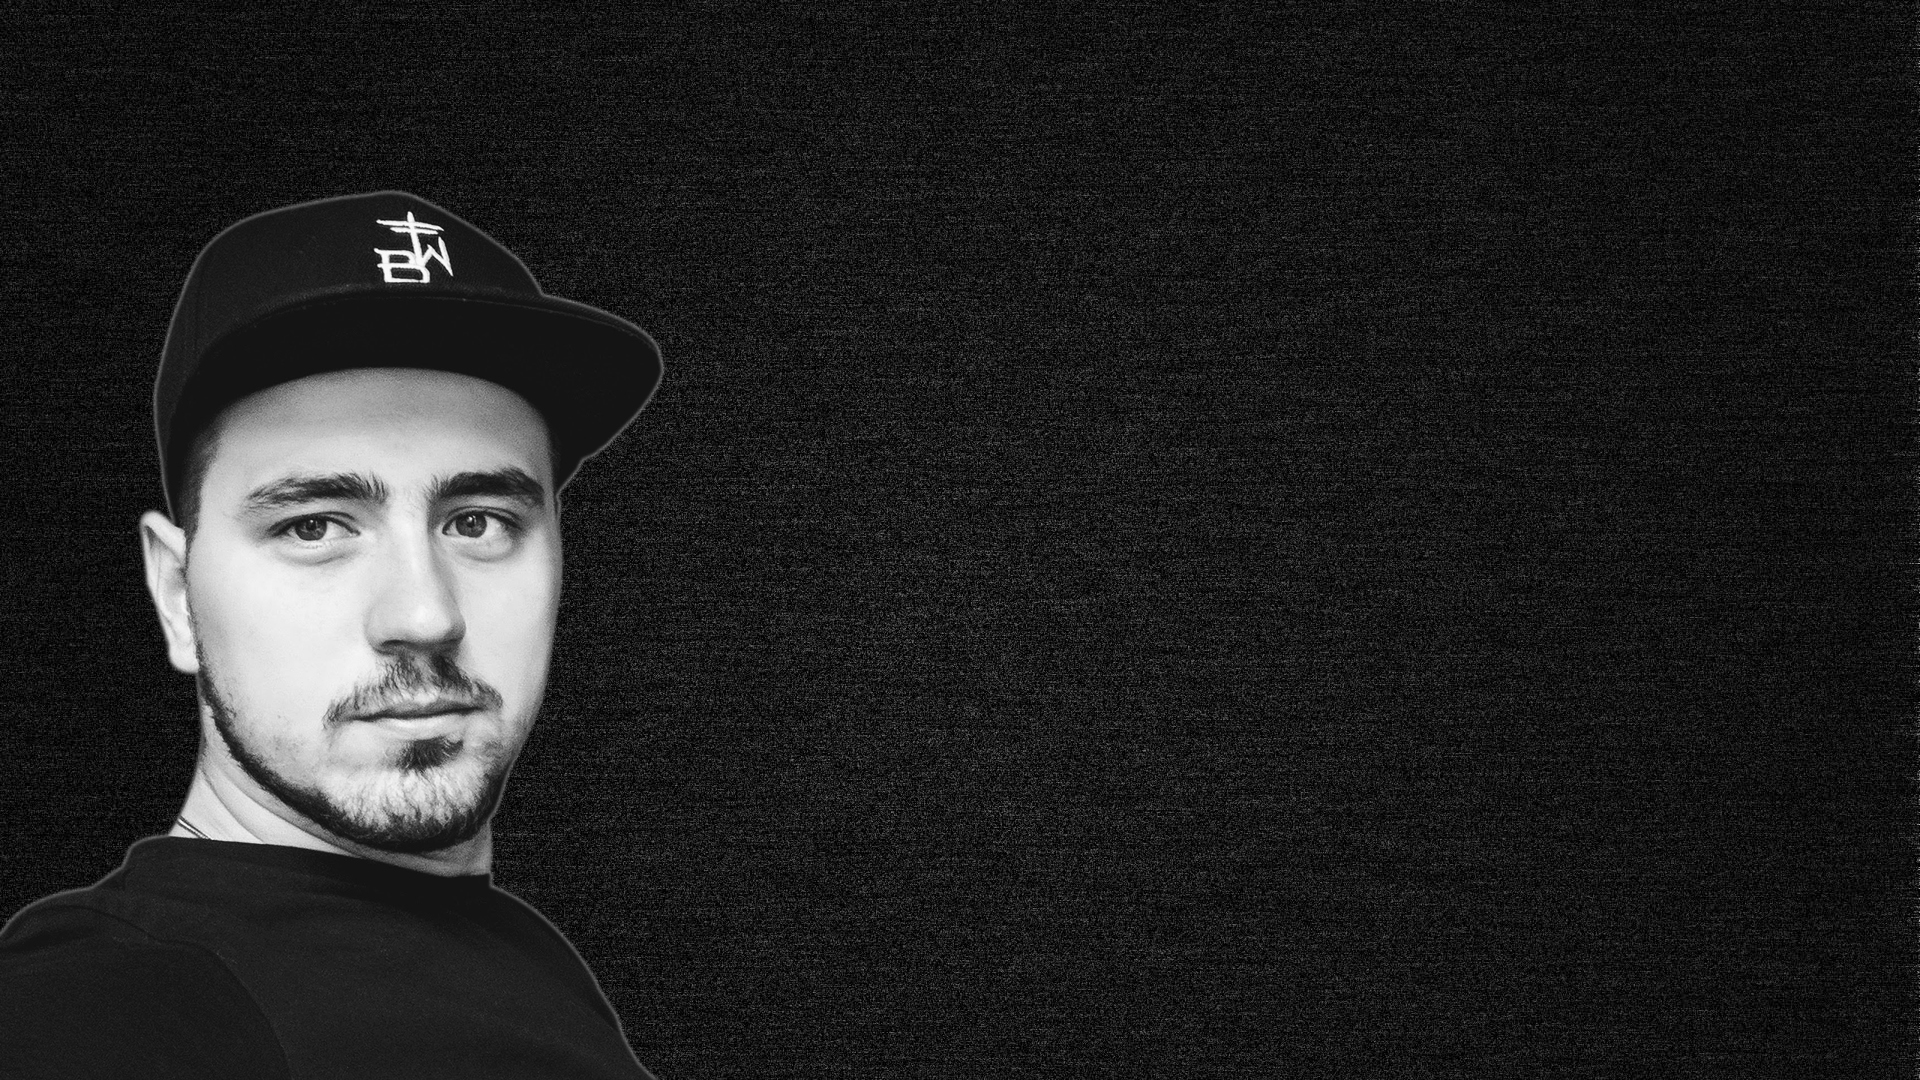
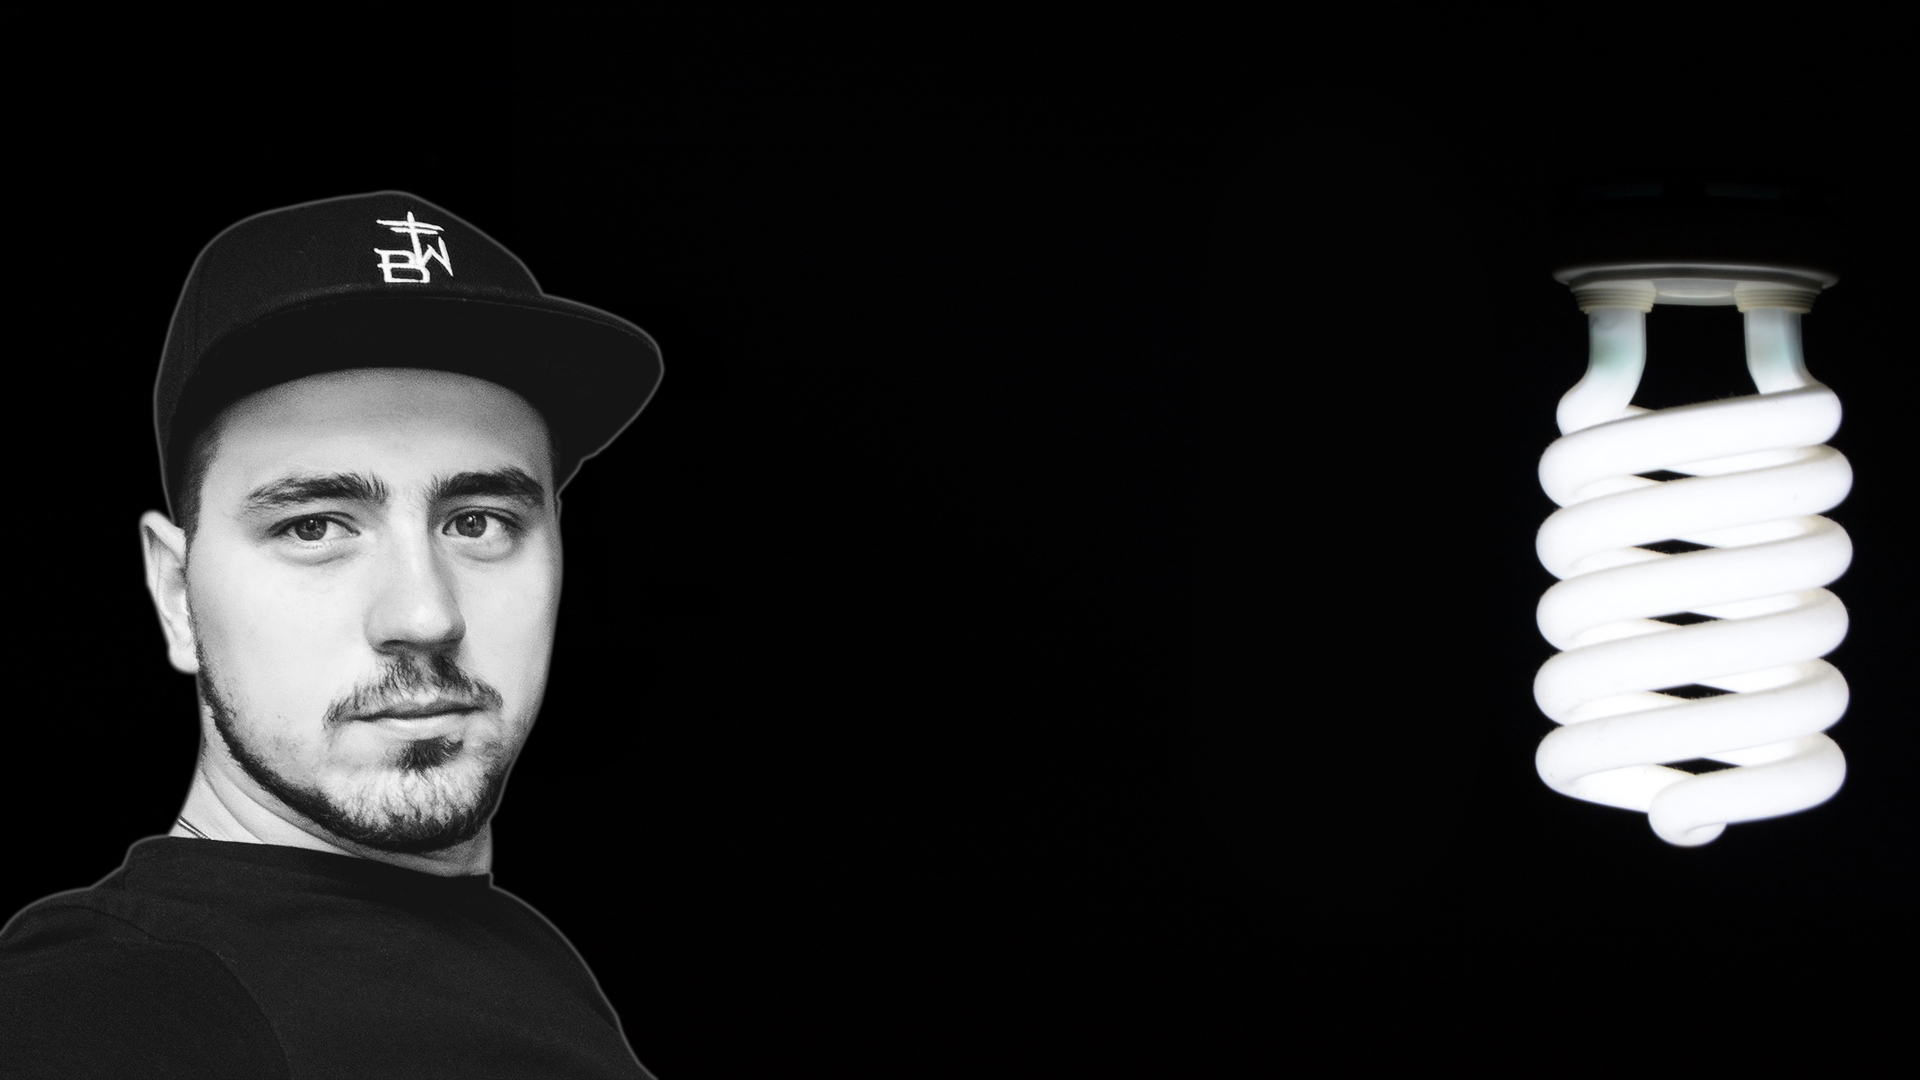
change path try

diff --git a/page/portfolio.html b/page/portfolio.html
@@ -1,76 +1,70 @@
 <!doctype html>
 <html>
-
-<head>
-    <meta charset="utf-8">
-    <title>Portfolio</title>
-    <link rel="stylesheet" type="text/css" href="../style.css">
-    <link rel="stylesheet" type="text/css" href="../style/portfolio.css">
-</head>
-
-<body>
-    <div class="head">
-        <div class="menu">
-            <ul class="list">
-                <a href="../index.html">
-                    <li class="menu-li">Главная</li>
-                </a>
-                <a href="../page/service.html">
-                    <li class="menu-li">Услуги</li>
-                </a>
-                <a href="../page/portfolio.html">
-                    <li class="menu-li">Портфолио</li>
-                </a>
-                <a href="../page/news.html">
-                    <li class="menu-li">Новости</li>
-                </a>
-                <a href="../page/contact.html">
-                    <li class="menu-li">Контакты</li>
-                </a>
-                <a href="../page/about.html">
-                    <li class="menu-li">О Нас</li>
-                </a>
-            </ul>
-        </div>
-        <hr>
-        <div class="header">
-            <!--
-            <div class="photo">
-                <img src="/img/photo.jpeg">
+    <head>
+        <meta charset="utf-8">
+        <title>Portfolio</title>
+        <link rel="stylesheet" type="text/css" href="../style.css">
+        <link rel="stylesheet" type="text/css" href="../style/portfolio.css">
+    </head>
+    <body>
+        <div class="head">
+            <div class="menu">
+                <ul class="list">
+                    <a href="../index.html">
+                        <li class="menu-li">Главная</li>
+                    </a>
+                    <a href="../page/service.html">
+                        <li class="menu-li">Услуги</li>
+                    </a>
+                    <a href="../page/portfolio.html">
+                        <li class="menu-li">Портфолио</li>
+                    </a>
+                    <a href="../page/news.html">
+                        <li class="menu-li">Новости</li>
+                    </a>
+                    <a href="../page/contact.html">
+                        <li class="menu-li">Контакты</li>
+                    </a>
+                    <a href="../page/about.html">
+                        <li class="menu-li">О Нас</li>
+                    </a>
+                </ul>
             </div>
--->
-            <div class="info">
-                <p>
-                    HI, I`m Artem<br>
-                </p>
+            <hr>
+            <div class="head">
+                <div class="photo">
+                    <img src="../wall.png">
+                </div>
+                <div class="info">
+                    <p>
+                        HI, I`m Artem<br>
+                    </p>
+                </div>
+            </div>
+            <div class="middle">
+                <ul class="top_skills">
+                    <a href="#">
+                        <li class="skills-li" class="html">HTML</li>
+                    </a>
+                    <a href="#">
+                        <li class="skills-li" class="css">CSS</li>
+                    </a>
+                    <a href="#">
+                        <li class="skills-li" class="js">JS</li>
+                    </a>
+                    <a href="#">
+                        <li class="skills-li" class="python">PYTHON</li>
+                    </a>
+                    <a href="#">
+                        <li class="skills-li" class="java">JAVA</li>
+                    </a>
+                    <a href="#">
+                        <li class="skills-li" class="c_sharp">C#</li>
+                    </a>
+                </ul>
+            </div>
+            <div class="hidden_text">
             </div>
         </div>
-        <div class="middle">
-            <ul class="top_skills">
-                <a href="#">
-                    <li class="skills-li" class="html">HTML</li>
-                </a>
-                <a href="#">
-                    <li class="skills-li" class="css">CSS</li>
-                </a>
-                <a href="#">
-                    <li class="skills-li" class="js">JS</li>
-                </a>
-                <a href="#">
-                    <li class="skills-li" class="python">PYTHON</li>
-                </a>
-                <a href="#">
-                    <li class="skills-li" class="java">JAVA</li>
-                </a>
-                <a href="#">
-                    <li class="skills-li" class="c_sharp">C#</li>
-                </a>
-            </ul>
-        </div>
-        <div class="hidden_text">
-
-        </div>
-    </div>
-</body>
-
+    </body>
 </html>

diff --git a/style.css b/style.css
@@ -1,9 +1,12 @@
 body {
-    background-image: url(wall_photo.jpg);
+    background-color:dimgray;
     font-family: sans-serif;
     background-size: cover;
 }
-
+img {
+    height: 480px;
+    width: 398px;
+}
 .menu {
     margin-top: 0;
     width: auto;

diff --git a/style/portfolio.css b/style/portfolio.css
@@ -1,14 +1,10 @@
-.head {
-    background-image: url(wall_photo.jpg);
-}
-
 .header {
     display: flex;
-    position: relative;
 }
 
 .info {
-    padding-left: 50%;
+    margin-top: -400px;
+    padding-left: 30%;
 }
 
 p {

diff --git a/index.html b/index.html
@@ -31,6 +31,9 @@
         </ul>
     </div>
     <hr>
+    <div class="photo_img">
+        <img src="wall.png">
+    </div>
 </body>
 
 </html>
